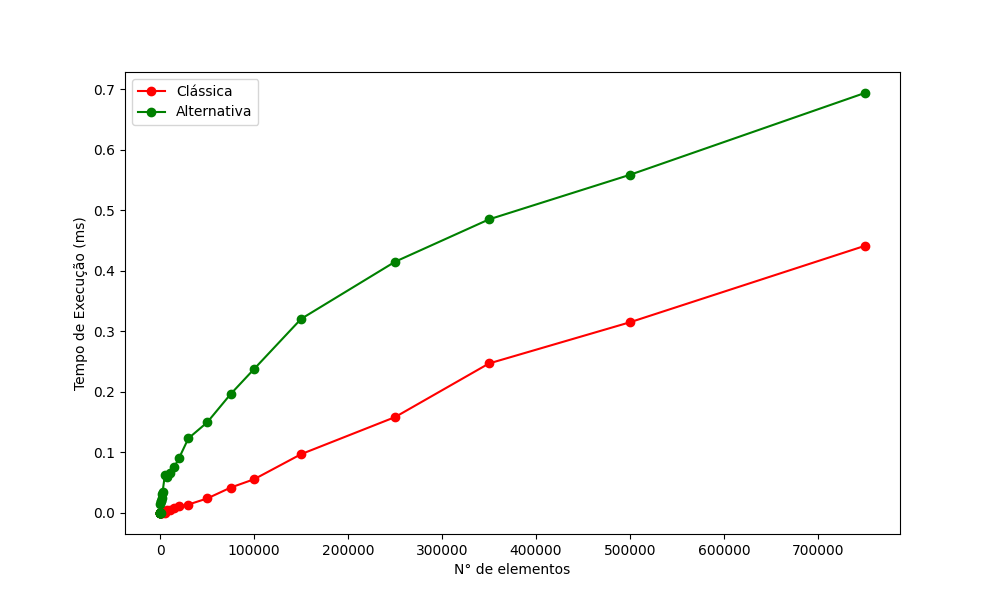
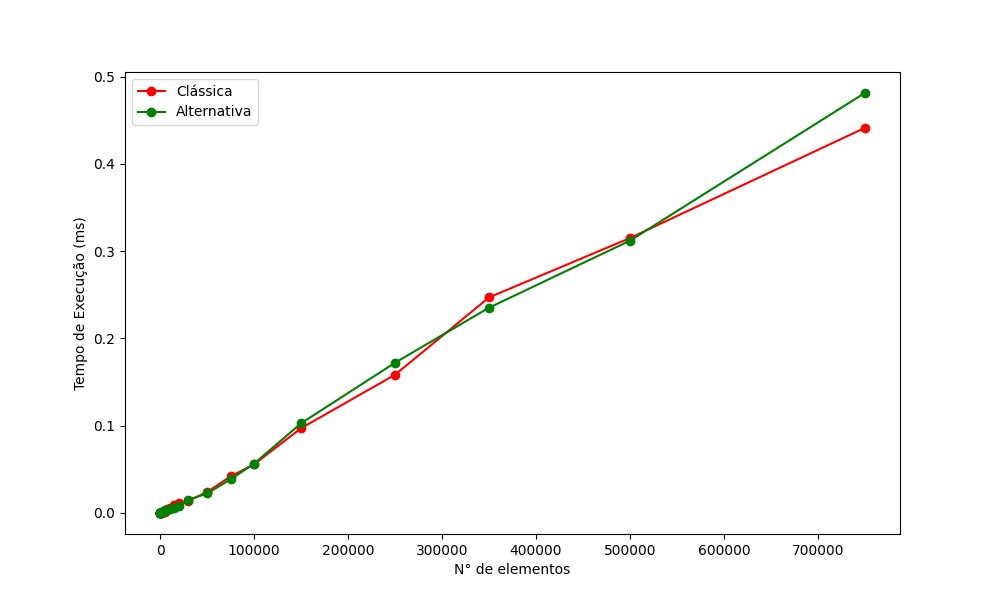
new calc

diff --git a/data_analysis.py b/data_analysis.py
@@ -7,7 +7,7 @@ def process_data(file_path):
     df = pd.read_csv(file_path)
     avg_data = df.groupby('num_classes').mean().reset_index()
     avg_data['unbalanced_var'] = np.sqrt(avg_data['unbalanced_var'])
-    avg_data['balanced_time'] = np.sqrt(avg_data['balanced_time'])
+    avg_data['balanced_var'] = np.sqrt(avg_data['balanced_var'])
     return avg_data
 
 def add_labels_line(x, y, color):
@@ -41,6 +41,25 @@ def add_labels(bars):
             f'{height:.2f}',
             ha='center', va='bottom', fontsize=10
         )
+def plot_times_10000(avg_data):
+    import matplotlib.pyplot as plt
+    
+    # Filtrar até num_classes = 10000
+    filtered_data = avg_data[avg_data['num_classes'] <= 2500]
+    
+    plt.figure(figsize=(10, 6))
+    
+    # Plotar os tempos da linha Clássica e Alternativa
+    plt.plot(filtered_data['num_classes'], filtered_data['unbalanced_time'], marker='o', label='Clássica', color='red')
+    plt.plot(filtered_data['num_classes'], filtered_data['balanced_time'], marker='o', label='Alternativa', color='green')
+    
+    plt.xlabel('N° de elementos')
+    plt.ylabel('Tempo de Execução (ms)')
+    plt.legend()
+    
+    # Salvar e exibir o gráfico
+    plt.savefig('tempo2500.png')
+    plt.show()
 
 def plot_absolute_values(avg_data): # barras para tempo e variância
     plt.figure(figsize=(10, 6))
@@ -80,10 +99,34 @@ def plot_absolute_values(avg_data): # barras para tempo e variância
     plt.savefig('new_variancia-elementos.png')
     plt.show()
 
+    filtered_data = avg_data[avg_data['num_classes'] <= 2500]
+    x_filtered = np.arange(len(filtered_data['num_classes']))
+
+    plt.figure(figsize=(10, 6))
+
+    bars5 = plt.bar(x_filtered - bar_width/2, filtered_data['unbalanced_var'], bar_width, label='Clássica', color='red')
+    bars6 = plt.bar(x_filtered + bar_width/2, filtered_data['balanced_var'], bar_width, label='Alternativa', color='green')
+    
+    # add_labels(bars3)
+    # add_labels(bars4)
+
+    plt.xlabel('N° de elementos')
+    plt.ylabel('Variância')
+    # plt.title('Variância: Alternativa vs. Clássica')
+    plt.xticks(x_filtered, filtered_data['num_classes'], rotation=-90)
+    plt.legend()
+    plt.grid(False)
+    plt.tight_layout()
+    plt.savefig('variancia-elementos2500.png')
+    plt.show()
+
+
 
 file_path = './results.csv'
 avg_data = process_data(file_path)
 
 plot_times(avg_data)
+plot_times_10000(avg_data)
 plot_absolute_values(avg_data)
+
 
